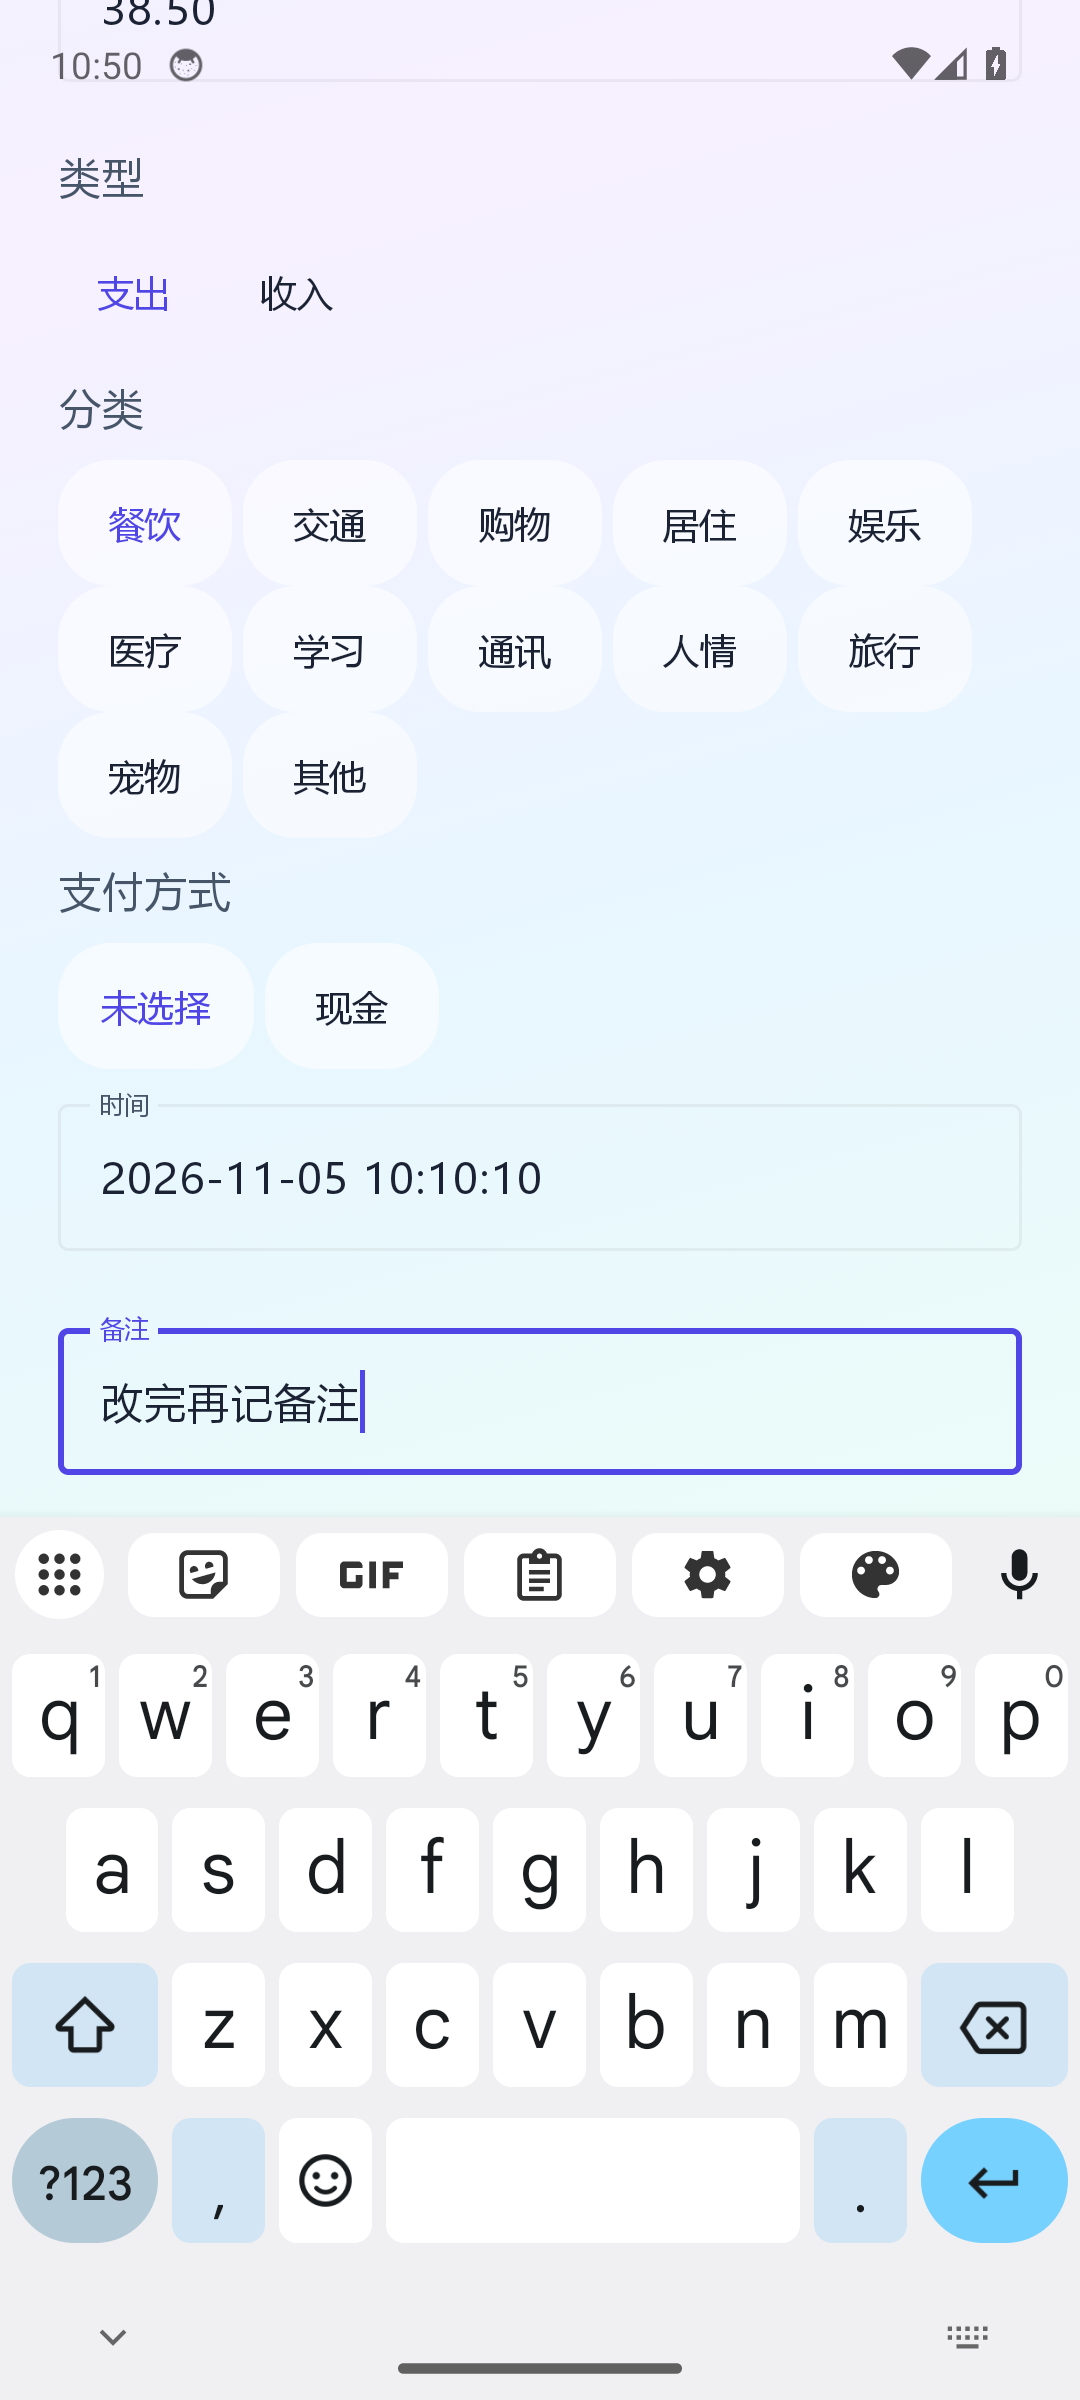
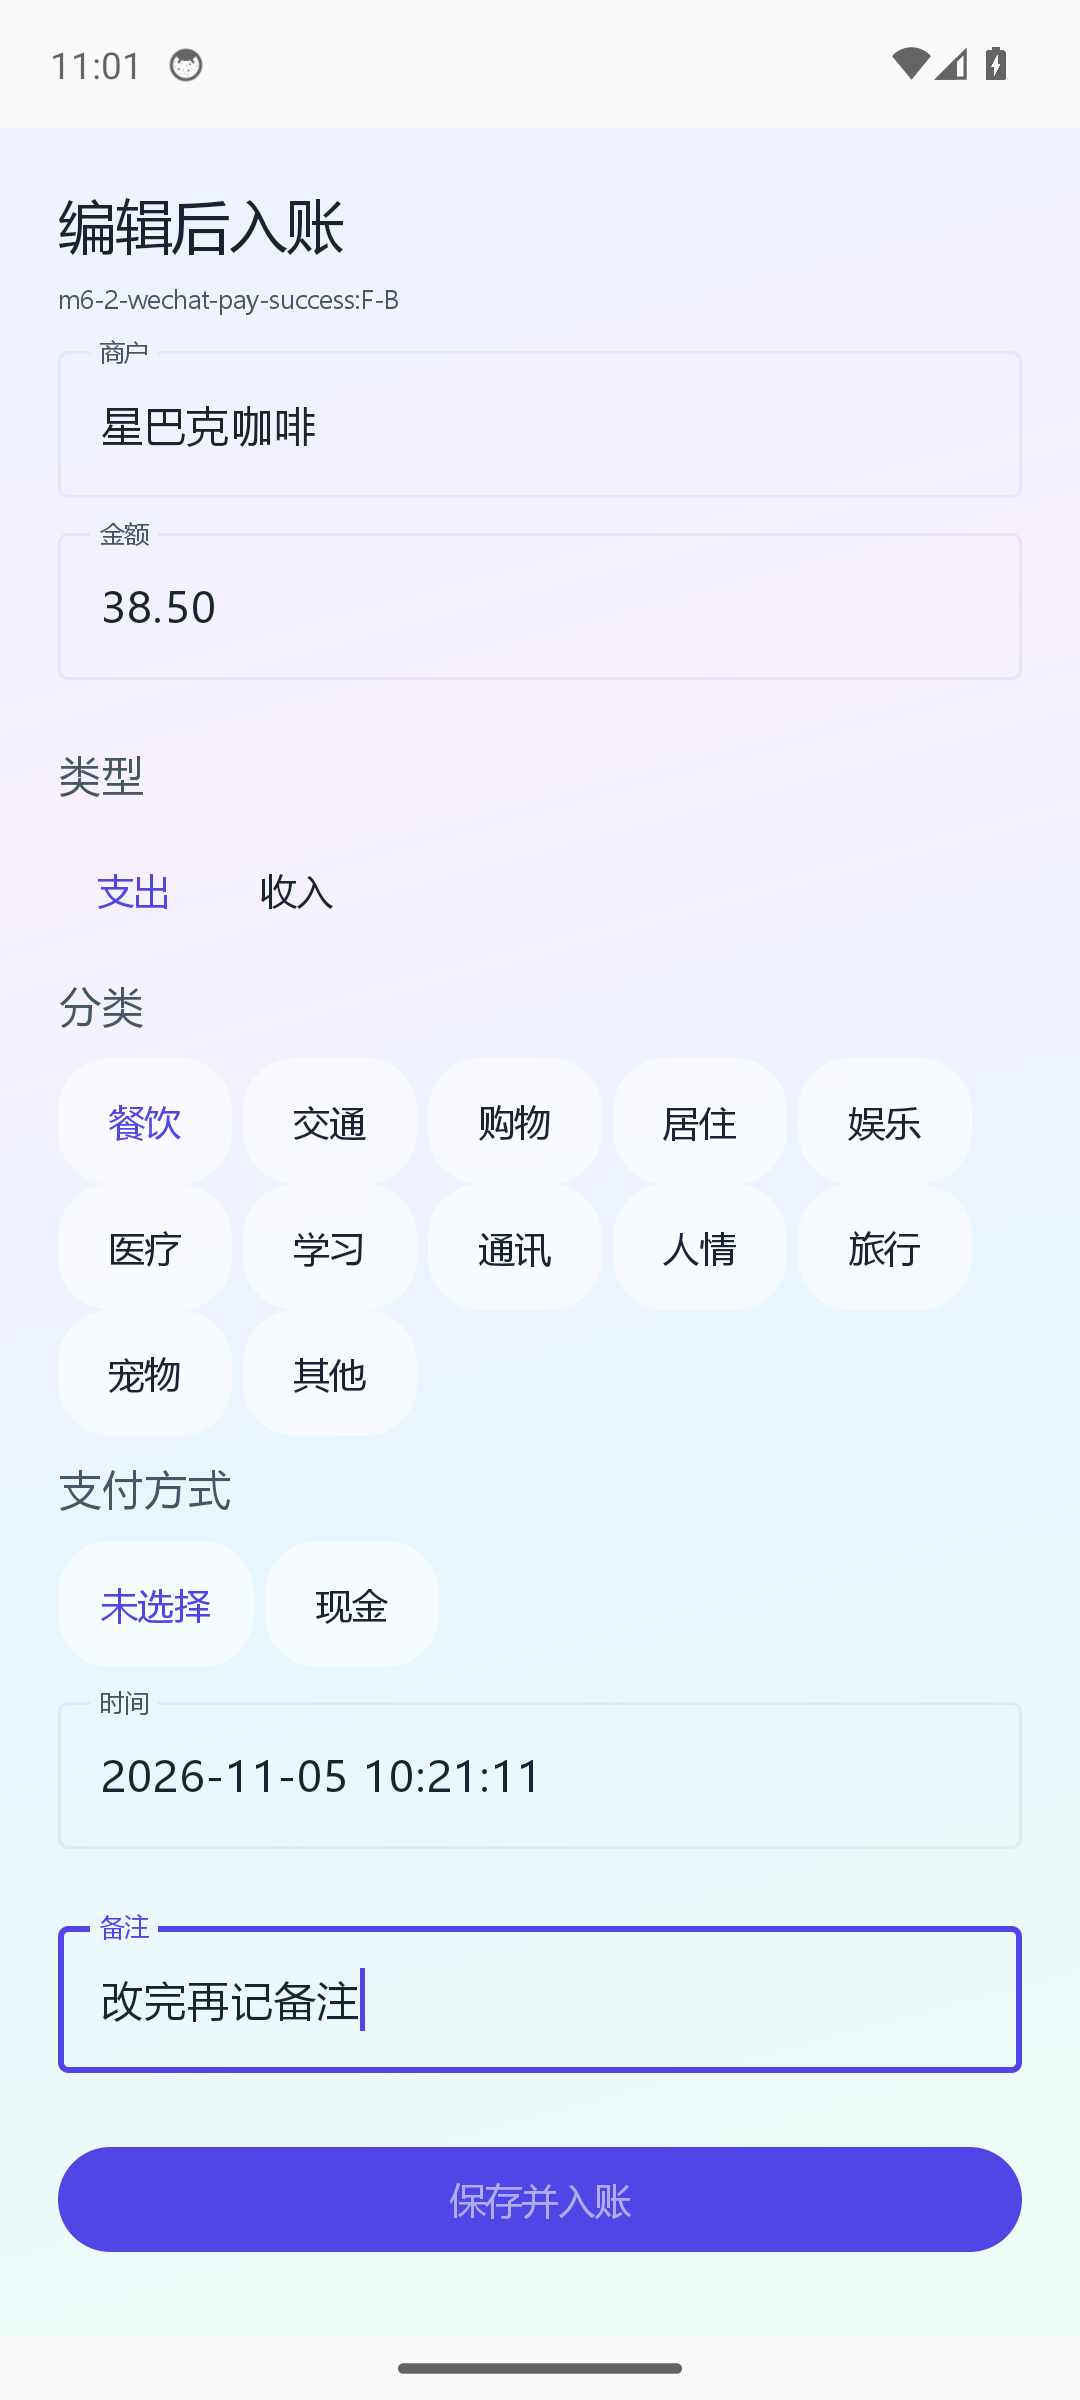
docs: 重拍 AC-3 编辑页，收起键盘后露出保存并入账
原截图软键盘挡住底部按钮。新图同一屏可读 F-B 的分类「餐饮」、备注「改完再记备注」和「保存并入账」。

diff --git a/docs/proof/m3a/README.md b/docs/proof/m3a/README.md
@@ -20,7 +20,7 @@
 | `ac1.json` | AC-1。F-D `reasons` 含 `POSSIBLE_DUPLICATE`，`state=PENDING` |
 | `ac2-pending-after-confirm.png` | AC-2。确认 F-A 之后列表里没有 F-A |
 | `ac2.json` | AC-2。F-A `state=CONFIRMED`，`confirmedByUser=true`，`fieldEdits=[]` |
-| `ac3-edit-before-save.png` | AC-3。F-B 编辑页：分类「餐饮」、备注「改完再记备注」、「保存并入账」 |
+| `ac3-edit-before-save.png` | AC-3。F-B 编辑页，键盘已收起。同一屏可读分类「餐饮」、备注「改完再记备注」和「保存并入账」 |
 | `ac3-pending-after-save.png` | AC-3。保存后列表里没有 F-B |
 | `ac3.json` | AC-3。F-B `fieldEdits` 恰好 `categoryId` 与 `note` |
 | `ac4-before.json` | AC-4。忽略 F-C 之前：`state=PENDING`，`evidenceCount=1`，`captureLogCount=1` |
